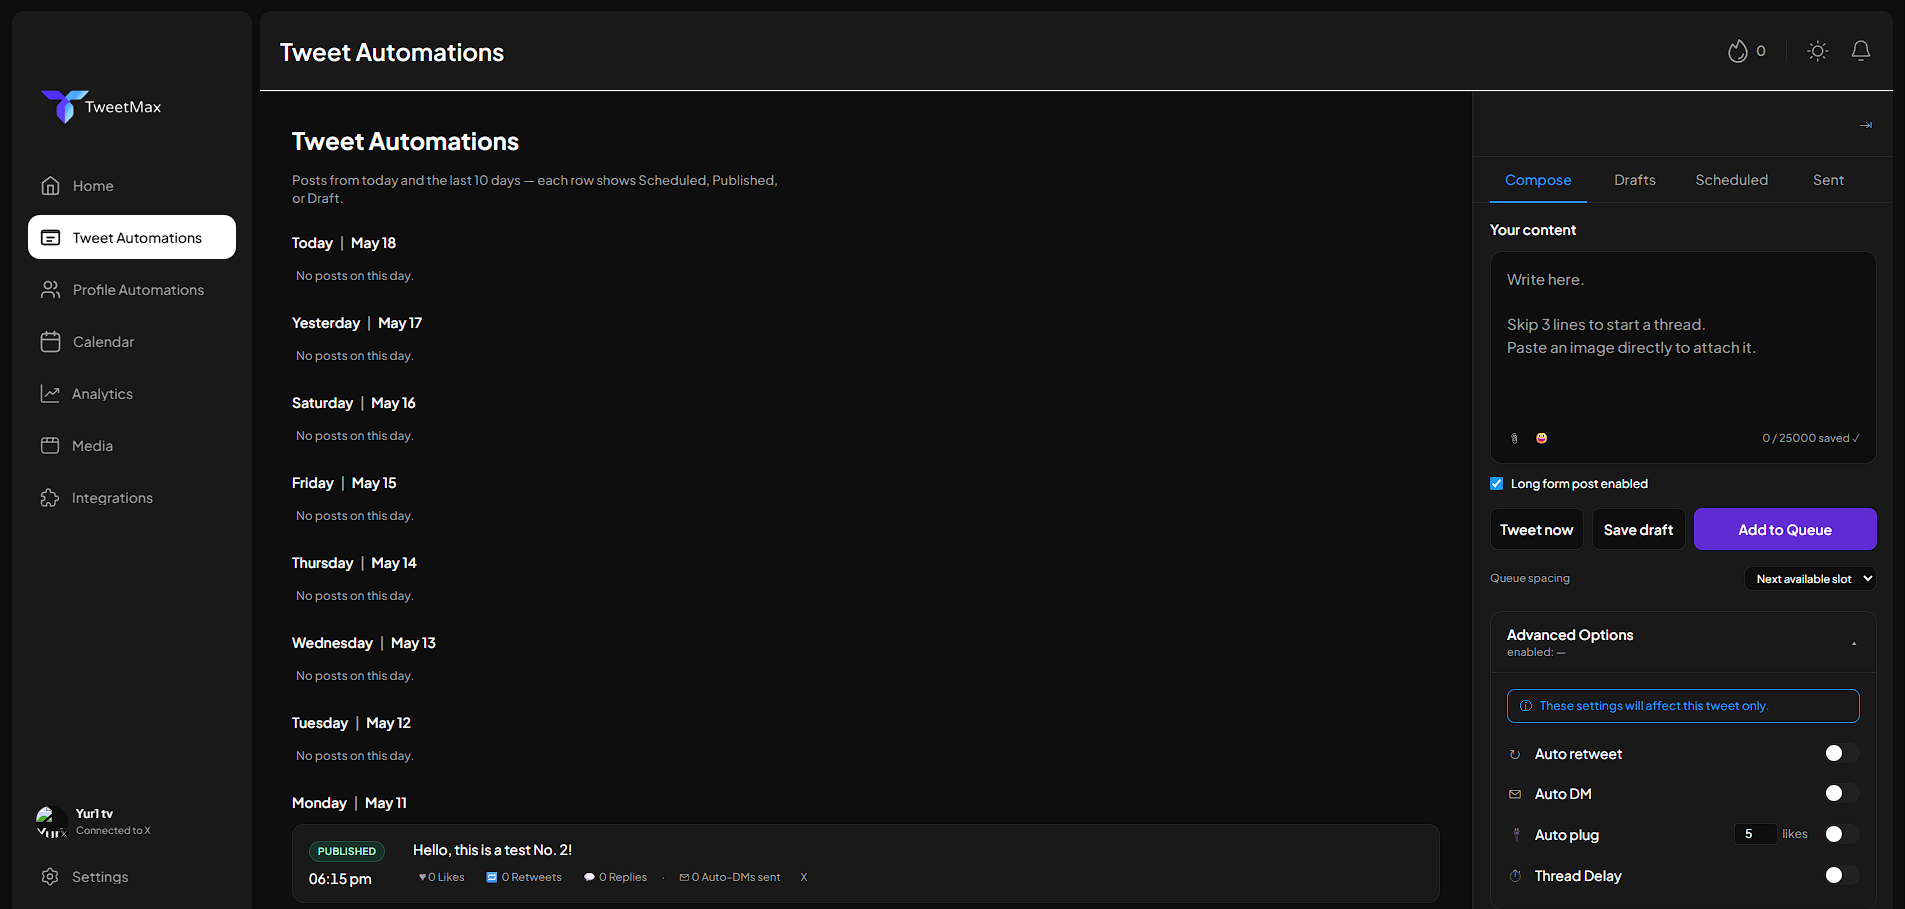
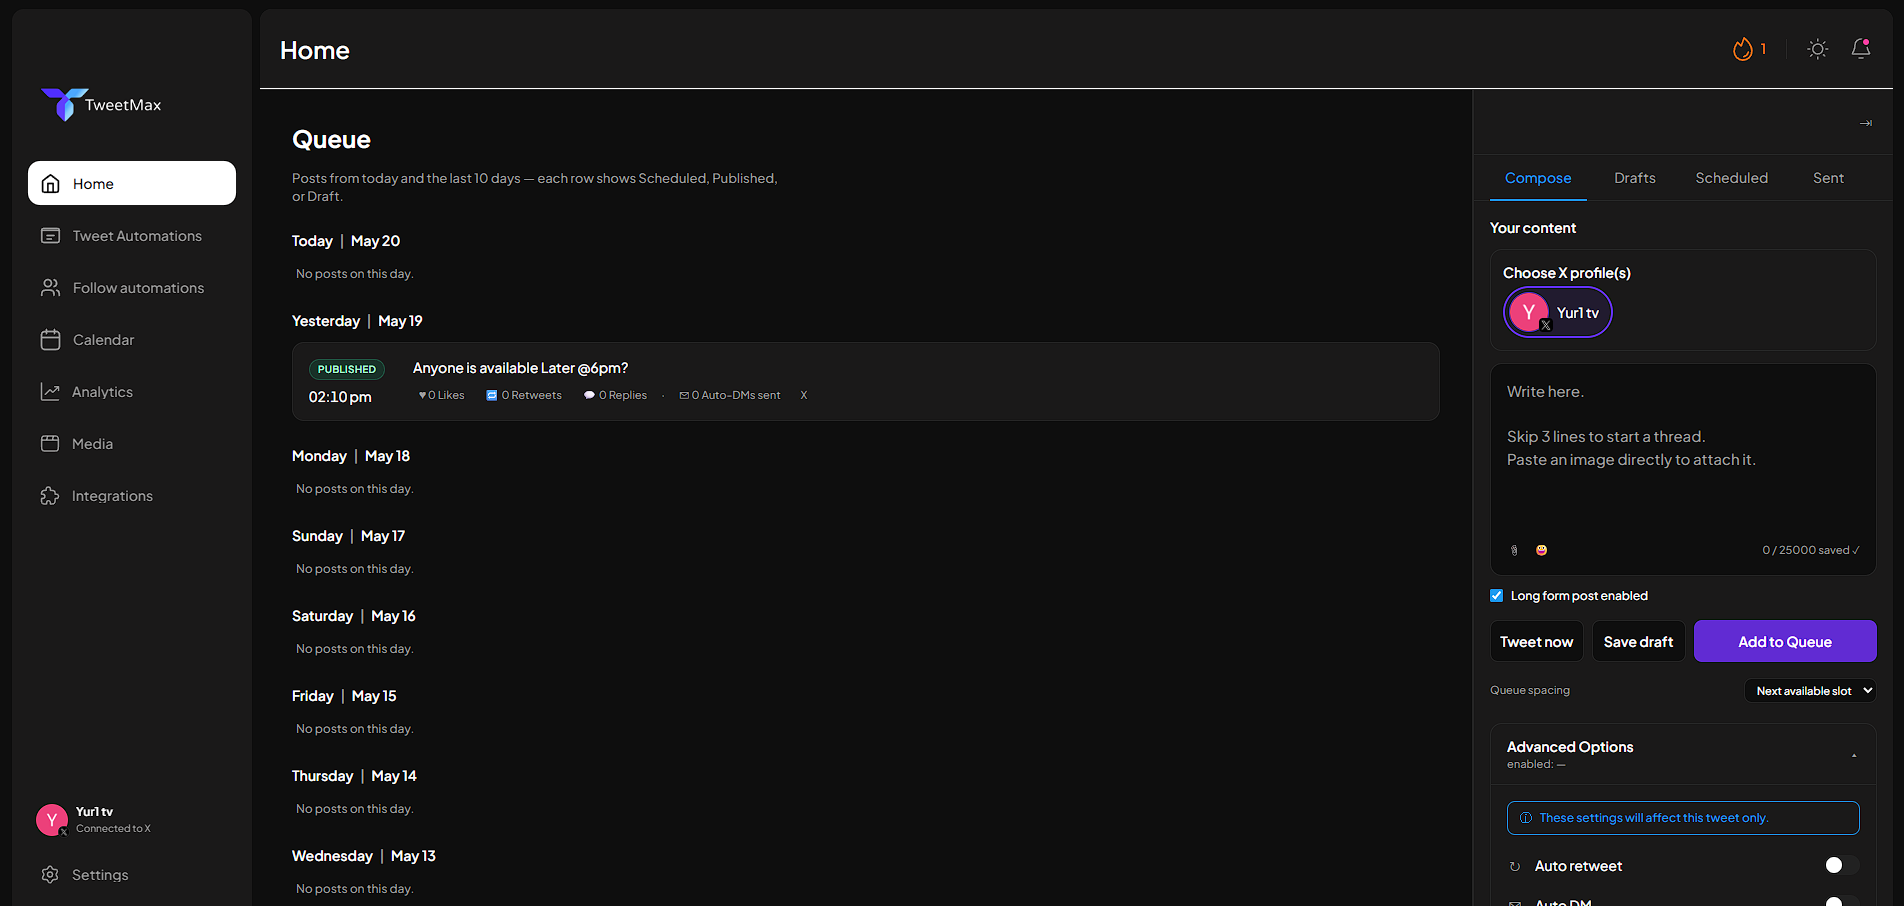
commit

diff --git a/src/components/section/PricingSectionV2.tsx b/src/components/section/PricingSectionV2.tsx
@@ -46,7 +46,7 @@ export default function PricingSectionV2() {
                                                 </div>
                                                 <p className="plan-description">{plan.description}</p>
                                                 <Link href="https://app.tweetmax.io" target="_blank" rel="noopener noreferrer" className={classNames("tf-btn style-high animate-btn w-100", plan.buttonClass)}>
-                                                    <span className="text-body-3">Start free trial</span>
+                                                    <span className="text-body-3">Get 7 Days Free</span>
                                                 </Link>
                                             </div>
 
@@ -87,7 +87,7 @@ export default function PricingSectionV2() {
                                                 </div>
                                                 <p className="plan-description">{plan.description}</p>
                                                 <Link href="https://app.tweetmax.io" target="_blank" rel="noopener noreferrer" className={classNames("tf-btn style-high animate-btn w-100", plan.buttonClass)}>
-                                                    <span className="text-body-3">Start free trial</span>
+                                                    <span className="text-body-3">Get 7 Days Free</span>
                                                 </Link>
                                             </div>
 
@@ -128,7 +128,7 @@ export default function PricingSectionV2() {
                                                 </div>
                                                 <p className="plan-description">{plan.description}</p>
                                                 <Link href="https://app.tweetmax.io" target="_blank" rel="noopener noreferrer" className={classNames("tf-btn style-high animate-btn w-100", plan.buttonClass)}>
-                                                    <span className="text-body-3">Start free trial</span>
+                                                    <span className="text-body-3">Get 7 Days Free</span>
                                                 </Link>
                                             </div>
 

diff --git a/src/data/plan.ts b/src/data/plan.ts
@@ -19,7 +19,7 @@ export const plans: Plan[] = [
     {
         id: "core",
         name: "Core Plan",
-        price: "$19",
+        price: "$39",
         duration: "per month",
         description: "Everything you need to start automating your 𝕏 engagement.",
         buttonClass: "style-3",
@@ -34,7 +34,7 @@ export const plans: Plan[] = [
     {
         id: "pro",
         name: "Pro Plan",
-        price: "$39",
+        price: "$99",
         duration: "per month",
         description: "Scale your outreach across multiple accounts and unlimited posts.",
         buttonClass: "style-2",
@@ -50,7 +50,7 @@ export const plans: Plan[] = [
     {
         id: "enterprise",
         name: "Enterprise",
-        price: "$99",
+        price: "$199",
         duration: "per month",
         description: "Maximum throughput for agencies and power creators.",
         buttonClass: "style-3",

diff --git a/public/assets/scss/_sections.scss b/public/assets/scss/_sections.scss
@@ -1875,8 +1875,11 @@
 .section-hero {
     overflow: hidden;
 
+    // Clip at the container's content edge (which aligns with .line_page)
+    // instead of its padding box, so the hero image doesn't bleed past the
+    // white vertical border line.
     .container {
-        overflow: hidden;
+        clip-path: inset(0 16px 0 16px);
     }
 }
 

diff --git a/src/components/section/mainSection/MainHeroSection.tsx b/src/components/section/mainSection/MainHeroSection.tsx
@@ -40,8 +40,11 @@ export function MainHeroSection() {
 
                                 <div className="hero-cta-group wow fadeInUp">
                                     <Link href="https://app.tweetmax.io" target="_blank" rel="noopener noreferrer" className="tf-btn style-2 style-high animate-btn animate-dark">
-                                        <span>Automate Your 𝕏 Now</span>
+                                        <span>Try It For Free</span>
                                     </Link>
+                                    <p className="hero-cta-microcopy text-caption font-2">
+                                        Get 7 days free
+                                    </p>
                                 </div>
 
                                 <div className="hero-social-proof wow fadeInUp">

diff --git a/src/components/section/PricingSection.tsx b/src/components/section/PricingSection.tsx
@@ -45,7 +45,7 @@ export function MainPricingSection() {
                                         </div>
                                         <p className="plan-description">{plan.description}</p>
                                         <Link href="https://app.tweetmax.io" target="_blank" rel="noopener noreferrer" className={classNames("tf-btn style-high animate-btn w-100", plan.buttonClass)}>
-                                            <span className="text-body-3">Start free trial</span>
+                                            <span className="text-body-3">Get 7 Days Free</span>
                                         </Link>
                                     </div>
 